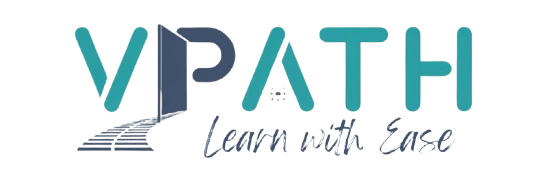
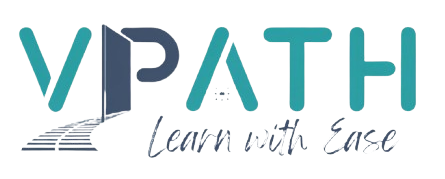
Some changes reated to main page

diff --git a/style.css b/style.css
@@ -27,7 +27,7 @@ body{
 .head #vpath{
     position: relative;
     margin: 1rem;
-    width: 210px;
+    width: 190px;
     height: 70px;
     mix-blend-mode:lighten;
 }
@@ -70,7 +70,6 @@ ul li{
     color: rgba(233, 247, 247, 0.945);
     word-spacing: 2px;
     color: white;
-    /* letter-spacing: 1px; */
 }
 .aside h1{
     margin-left: 3%;
@@ -147,34 +146,37 @@ ul li{
     align-items: center;
     font-size: 22px;
 }
-.em{
+.em a i{
     margin: 10px;
     opacity: 0.5;
+    color: white;
 }
-.in{
+.in a i{
     margin: 10px;
     opacity: 0.5;
+    color: white;
 }
-.li{
+.li a i{
     margin: 10px;
     opacity: 0.5;
+    color: white;
 }
-.em:hover{
-    transform: scale(1.4);
+.em a i:hover{
+    transform: scale(1.3);
     transition: 0.5s;
     opacity: 1;  
     color: #0092b7;
 }
-.in:hover{
-    transform: scale(1.4);
+.in a i:hover{
+    transform: scale(1.3);
     transition: 0.5s;
     opacity: 1;
     background-image: var(--instagram);
     background-clip: text;
-    color: transparent;
+    color: transparent;  
 }
-.li:hover{
-    transform: scale(1.4);
+.li a i:hover{
+    transform: scale(1.3);
     transition: 0.5s;
     opacity: 1;
     color: #0075b7;
@@ -184,7 +186,9 @@ ul li{
         height: 90px;
     }
     .head #vpath{
-        height: 50px;
+        top: 4px;
+        width: 140px;
+        height: 55px;
     }
     .head #vit{
         top: 10px;

diff --git a/index.html b/index.html
@@ -62,17 +62,17 @@
         </div>
         <footer class="footer" id="footer">
             <div class="cr">
-                <h5>Developed by V Mahesh	&#9829; </h5>
+                <h5>Developed by V Mahesh </h5>
             </div>
         <div class="links">
             <div class="li">
-                <i class="fa-brands fa-linkedin"></i>
+                <a href="https://www.instagram.com/__mahesh.veesam__293" target="_blank"><i class="fa-brands fa-linkedin"></i></a>
             </div>
             <div class="in">
-                <i class="fa-brands fa-instagram"></i>
+                <a href="https://www.linkedin.com/in/mahesh-veesam-52321031a" target="_blank"><i class="fa-brands fa-instagram"></i></a>
             </div>
             <div class="em">
-                <i class="fa-solid fa-envelope"></i>
+                <a href="mailto:mahesh.23mis7302@vitapstudent.ac.in" target="_blank"><i class="fa-solid fa-envelope"></i></a>
             </div>
         </div>
         </footer>

diff --git a/pyqs/freshers/btech.html b/pyqs/freshers/btech.html
@@ -137,7 +137,7 @@
         </main>
         <footer class="footer">
             <div class="cr">
-                <h5>Developed by V Mahesh	&#9829; </h5>
+                <h5>Developed by V Mahesh	  </h5>
             </div>
            <div class="links">
                 <div class="li">

diff --git a/pyqs/freshers/mtech.html b/pyqs/freshers/mtech.html
@@ -139,7 +139,7 @@
         </main>
         <footer class="footer">
             <div class="cr">
-                <h5>Developed by V Mahesh	&#9829; </h5>
+                <h5>Developed by V Mahesh	  </h5>
             </div>
            <div class="links">
                 <div class="li">

diff --git a/pyqs/seniors/mat.html b/pyqs/seniors/mat.html
@@ -172,7 +172,7 @@
         </main>
         <footer class="footer">
             <div class="cr">
-                <h5>Developed by V Mahesh	&#9829; </h5>
+                <h5>Developed by V Mahesh	  </h5>
             </div>
            <div class="links">
                 <div class="li">

diff --git a/pyqs/seniors/cse.html b/pyqs/seniors/cse.html
@@ -180,7 +180,7 @@
         </main>
         <footer class="footer">
             <div class="cr">
-                <h5>Developed by V Mahesh	&#9829; </h5>
+                <h5>Developed by V Mahesh	 </h5>
             </div>
            <div class="links">
                 <div class="li">

diff --git a/pyqs/seniors/swe.html b/pyqs/seniors/swe.html
@@ -176,7 +176,7 @@
         </main>
         <footer class="footer">
             <div class="cr">
-                <h5>Developed by V Mahesh	&#9829; </h5>
+                <h5>Developed by V Mahesh	</h5>
             </div>
            <div class="links">
                 <div class="li">
